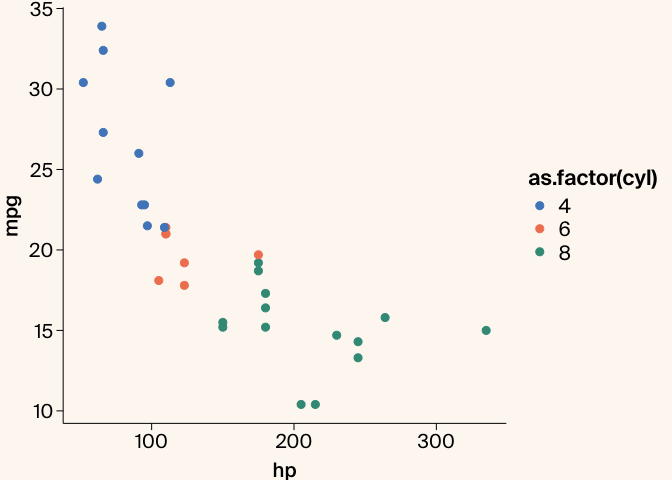
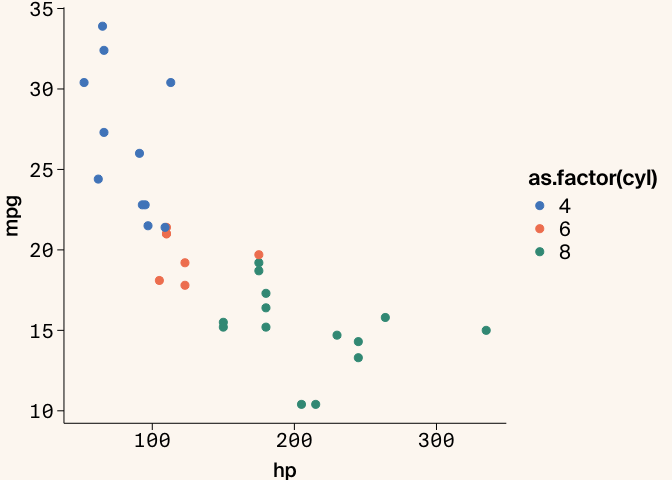
mono font .ttf format

diff --git a/README.md b/README.md
@@ -33,7 +33,7 @@ and color palettes in the same fashion as the `ggthemes` package.
 library(ggplot2)
 library(arcadiathemeR)
 #> Loading Suisse fonts...
-#> All custom fonts 'Suisse Int'l, Suisse Int'l Semi Bold, Suisse Int'l Medium' are successfully loaded.
+#> All custom fonts 'Suisse Int'l, Suisse Int'l Semi Bold, Suisse Int'l Medium, Suisse Int'l Mono' are successfully loaded.
 
 ggplot(data=mtcars, aes(x=hp, y=mpg, color=as.factor(cyl))) +
   geom_point(size=2.5) +
